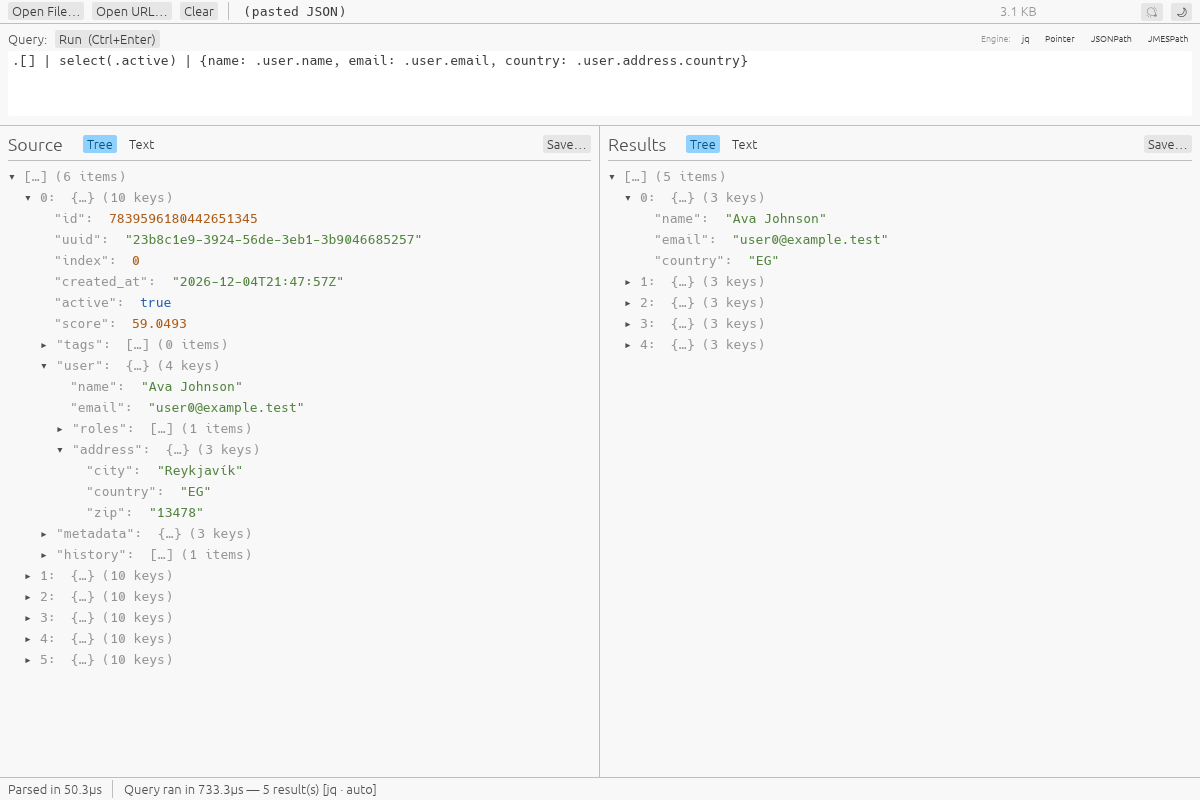
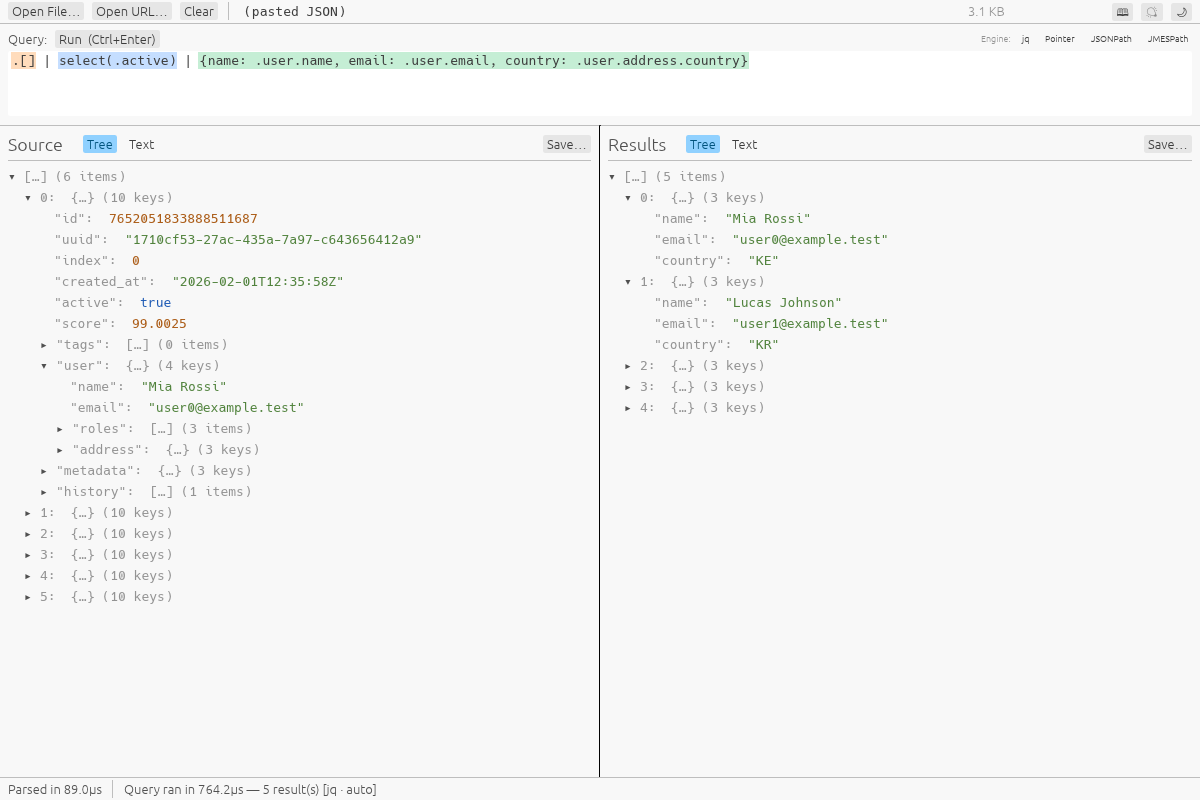
chore: bump to 0.4.0, retake README screenshots in light theme for release
All four README screenshots are now the light theme. The tutorial one was
dark because the app always launches Dark, so it clashed with the other
three. Each was retaken against the current UI, which the older ones
predated: the 📖 toolbar button, the colour-coded query box, and the Find
dialog with its Find All list.

README: autocomplete is off by default, so say how to switch it on (💡).

diff --git a/README.md b/README.md
@@ -17,7 +17,8 @@ file (or paste JSON directly) and query it with **jq**, **JSON Pointer**,
   built-in functions (with a short doc string) and for the loaded document's
   own keys and array indices — type `.` or `[` to see what's there. Accepted
   text is spelled for the dialect (`.["first name"]` in jq, `$["first name"]`
-  in JSONPath, `."first name"` in JMESPath). Toggleable from the toolbar.
+  in JSONPath, `."first name"` in JMESPath). Off by default — switch it on
+  with the 💡 button in the toolbar.
 
   ![Autocomplete suggestions in the query box](docs/images/screenshot-autocomplete.png)
 - **Colour-coded queries** — the query box tints each step of what you type
@@ -50,7 +51,7 @@ file (or paste JSON directly) and query it with **jq**, **JSON Pointer**,
   wrapping past the last one; **Find All** lists every match in a panel below,
   where a click reveals it.
 
-  ![Search results panel showing a match in the source tree](docs/images/screenshot-search.png)
+  ![The Find dialog and its Find All list, with the selected match revealed in the source tree](docs/images/screenshot-search.png)
 - **Find in Source** — right-click a result row to see where it came from.
   The row's key and value are matched against the source, and for array
   elements their position: one hit is revealed directly, several are listed
